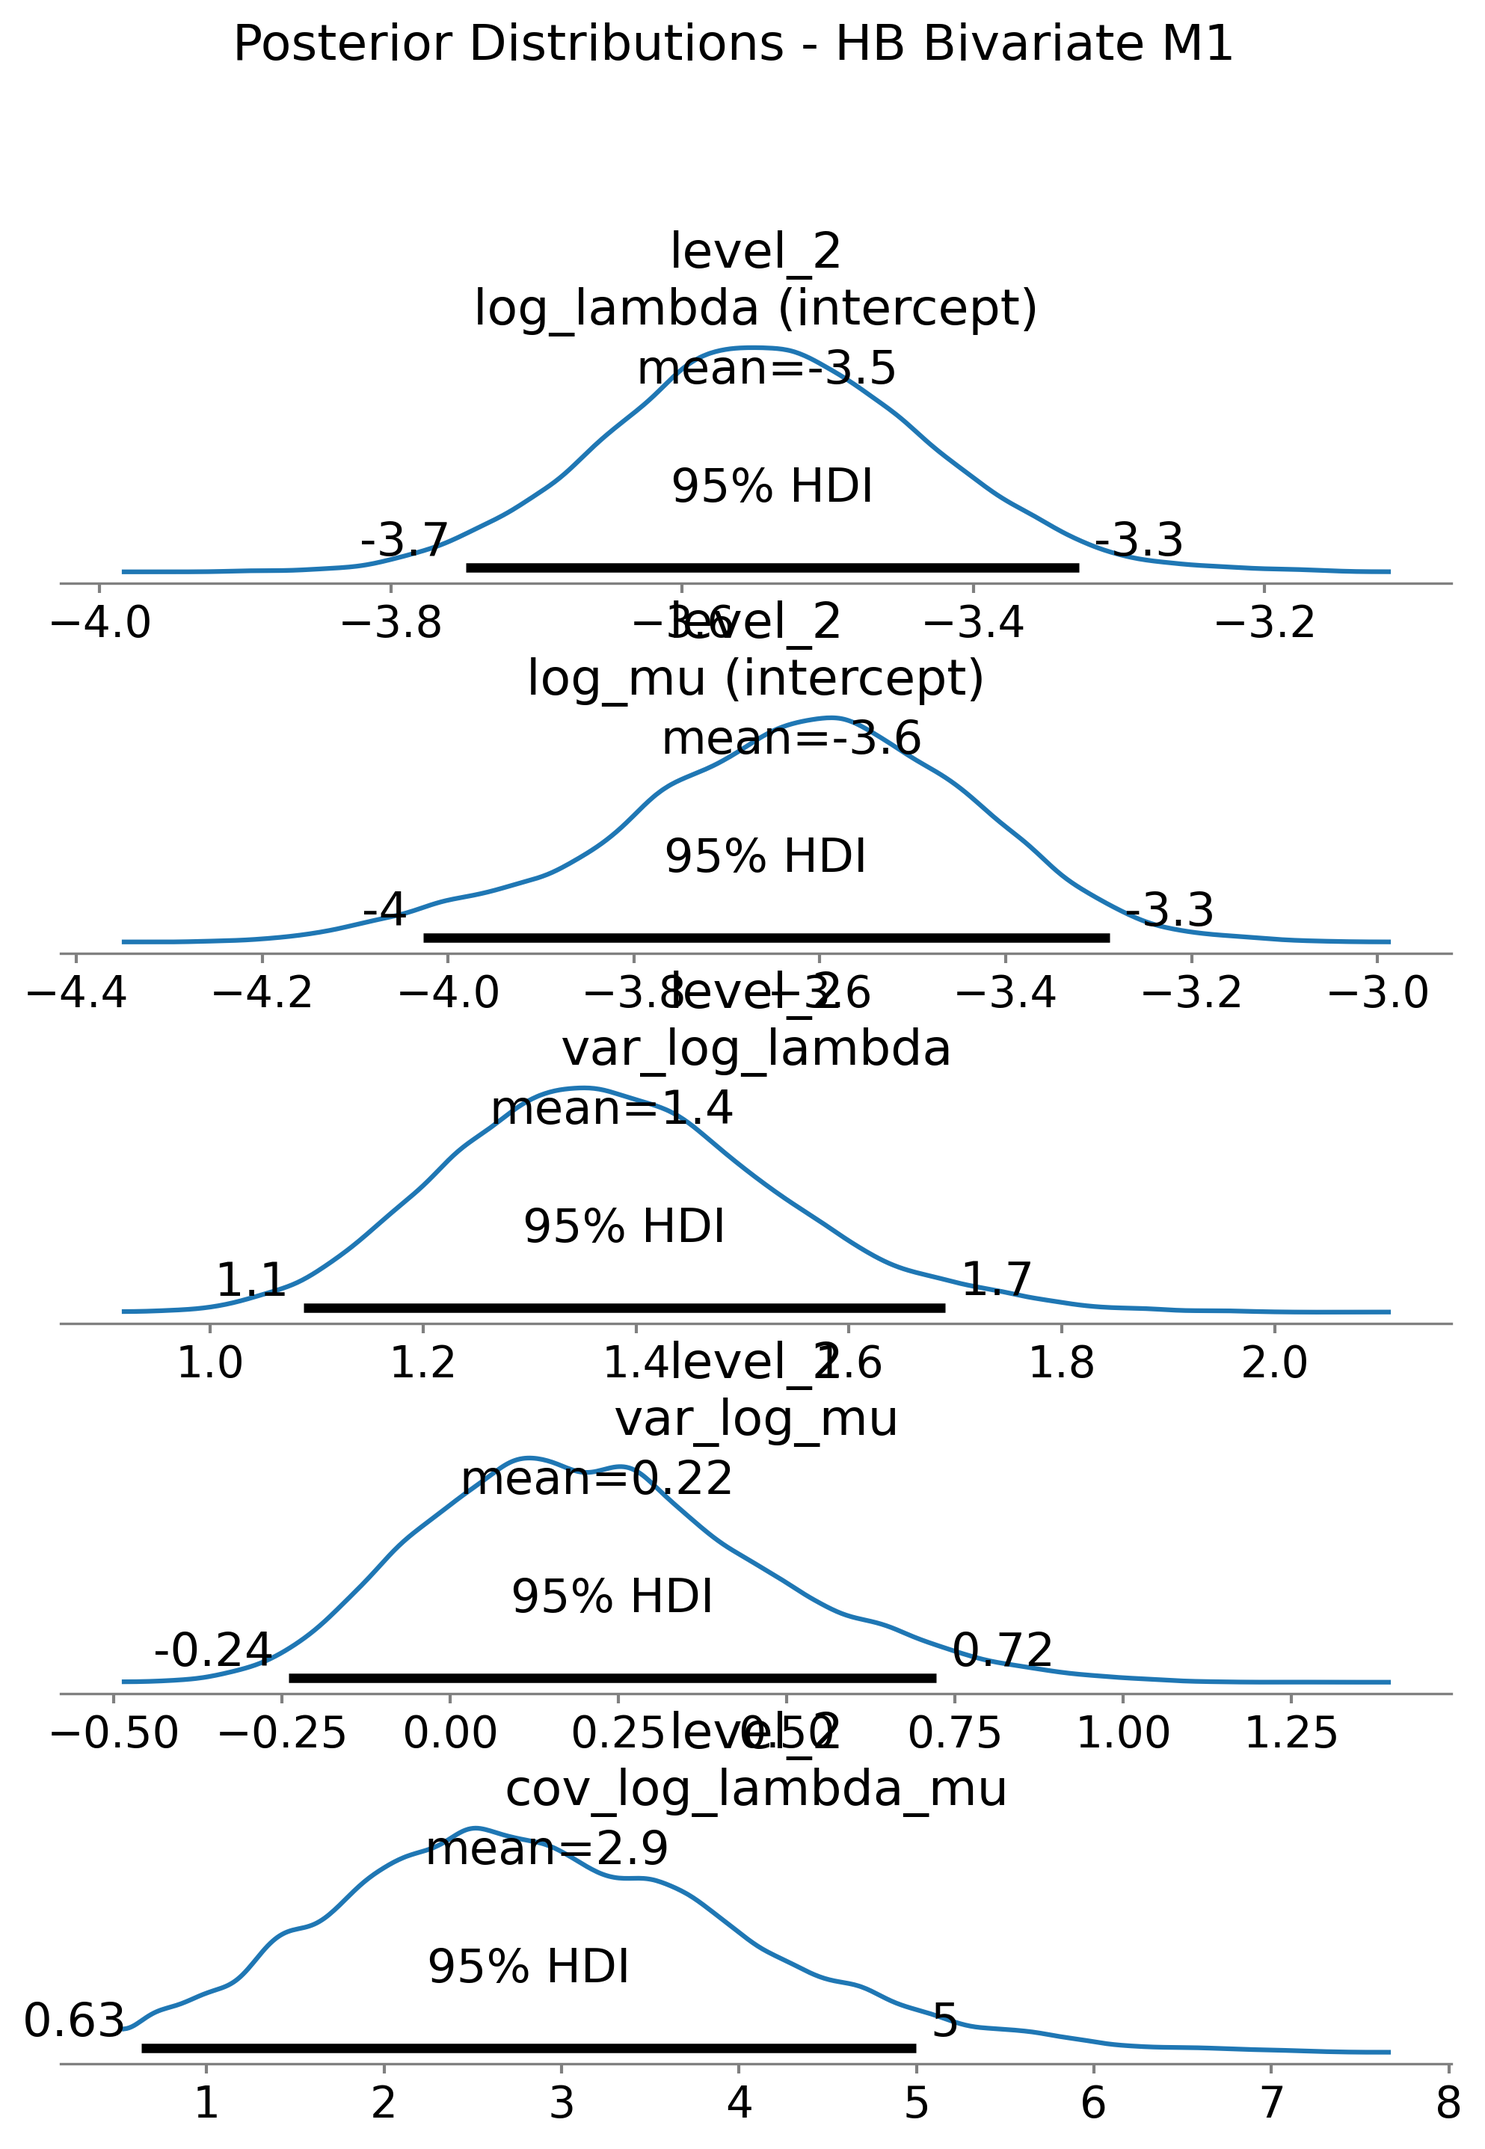
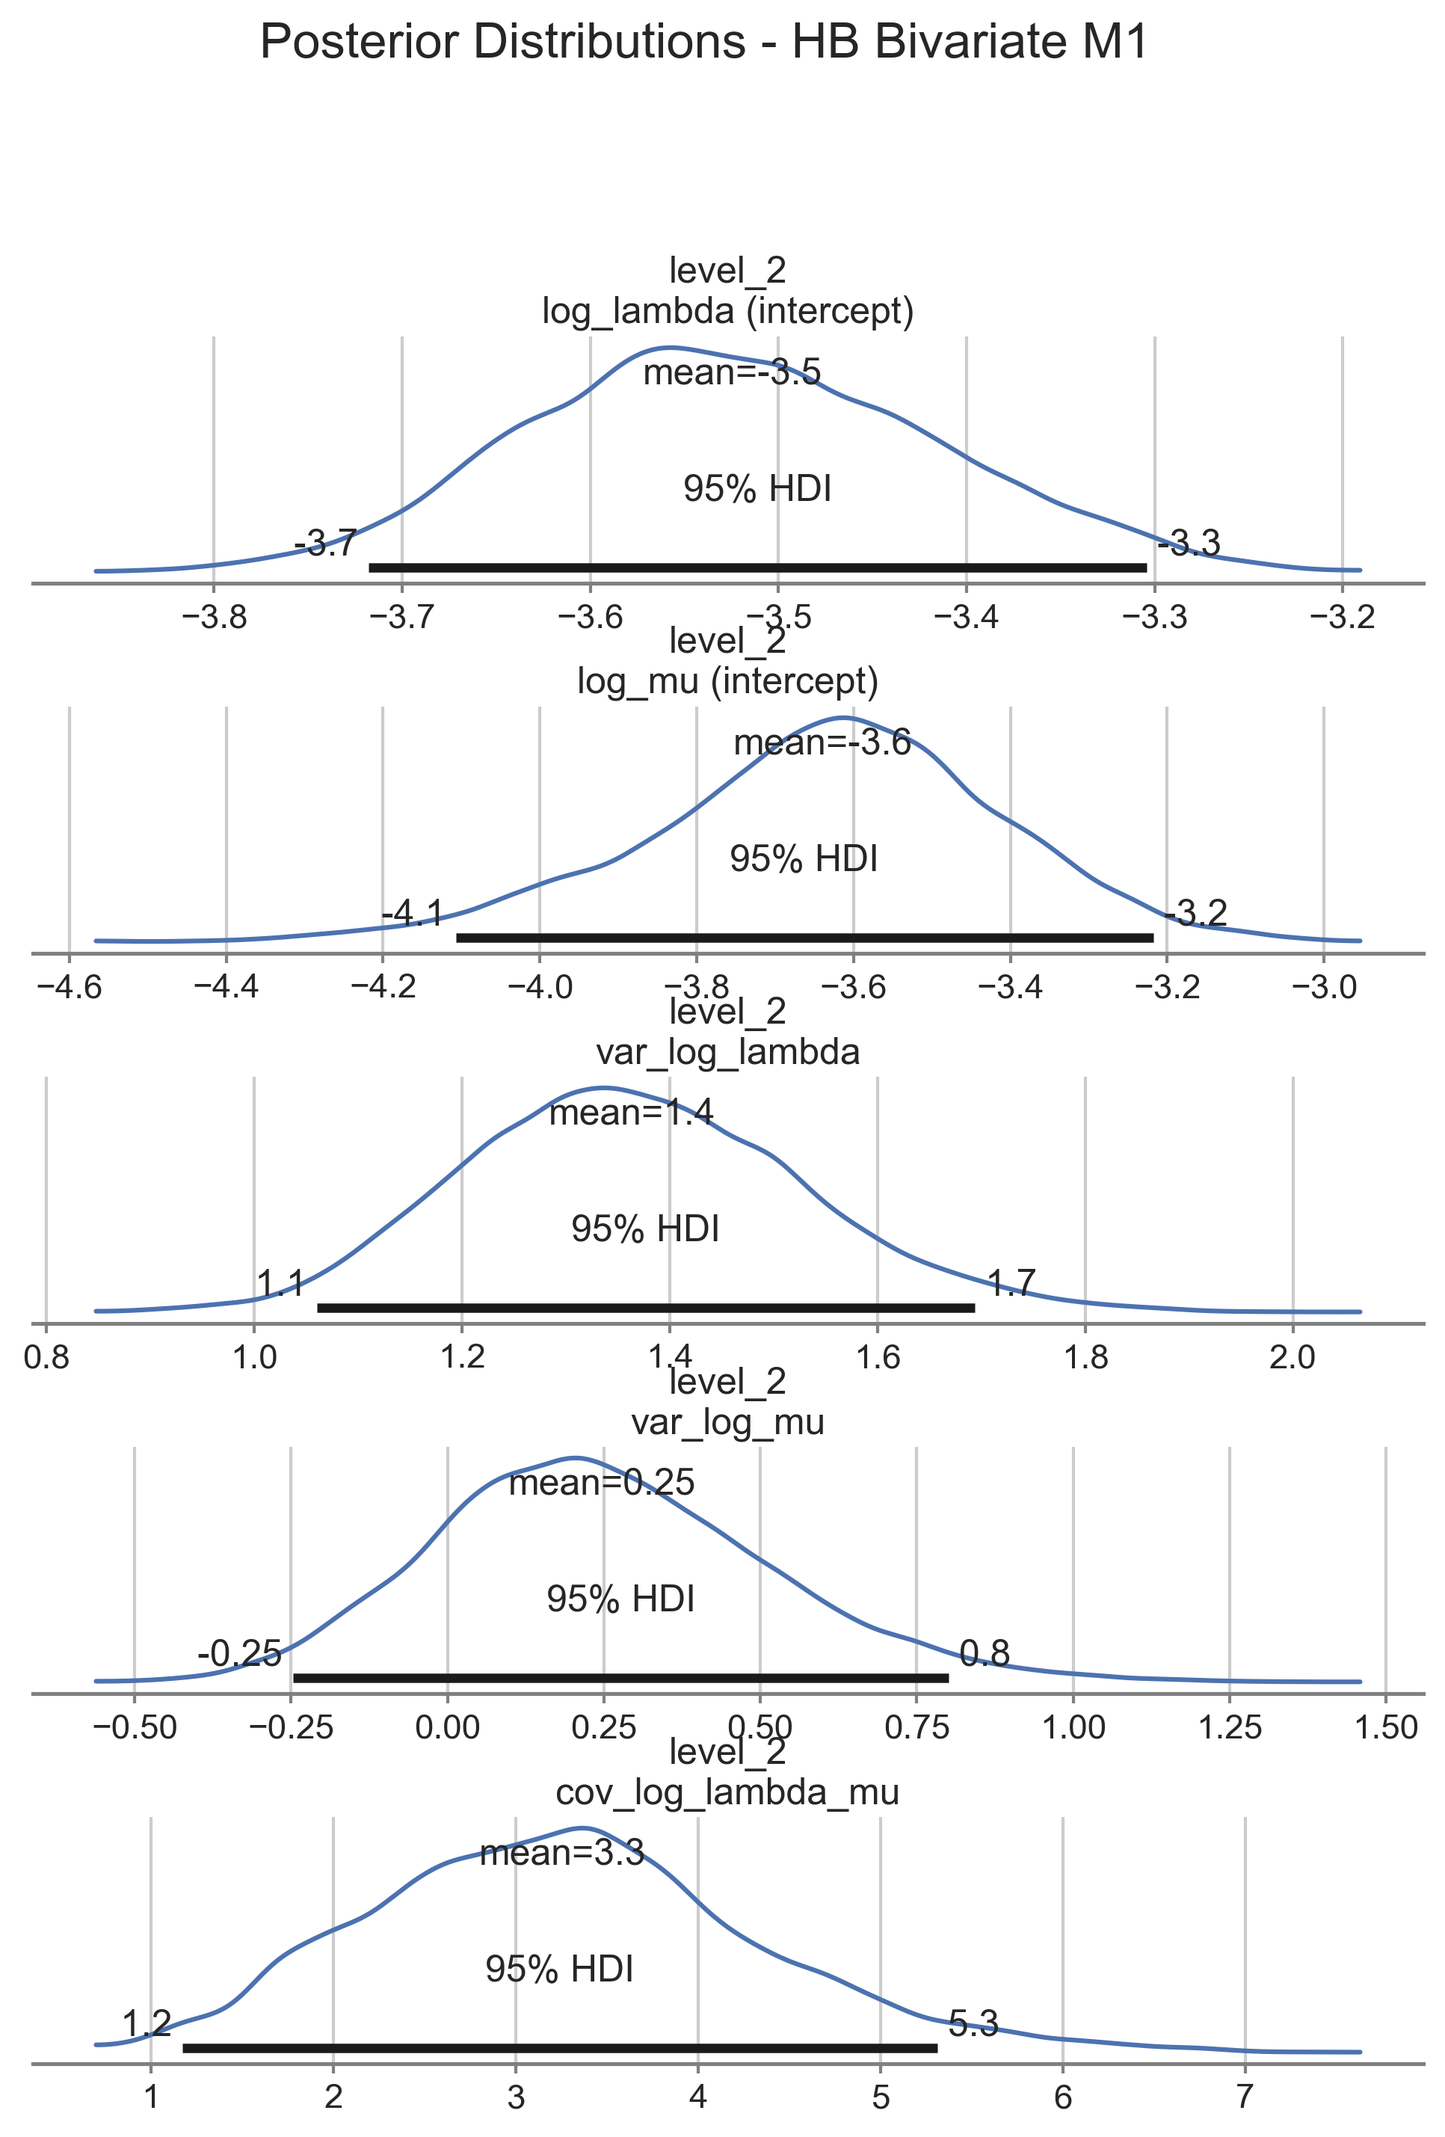
updated runs

diff --git a/src/full_analysis.py b/src/full_analysis.py
@@ -326,7 +326,6 @@ with pd.ExcelWriter(excel_path, engine="openpyxl", mode="a", if_sheet_exists="re
 
 # %% 5. Model Fit Evaluation Bivariate Models
 # -- 5. Model Fit Evaluation Bivariate Models --
-# -- 5. Model Fit Evaluation --
 # BI VARIATE MODEL
 mean_lambda_m1 = post_mean_lambdas(bi_m1)
 mean_mu_m1     = post_mean_mus(bi_m1)
@@ -335,6 +334,10 @@ mean_mu_m2     = post_mean_mus(bi_m2)
 
 cbs["xstar_bi_m1_pred"] = (mean_lambda_m1/mean_mu_m1) * (1 - np.exp(-mean_mu_m1 * t_star))
 cbs["xstar_bi_m2_pred"] = (mean_lambda_m2/mean_mu_m2) * (1 - np.exp(-mean_mu_m2 * t_star))
+
+# Compute marginal log-likelihood for bivariate models
+ll_bi_m1 = chain_total_loglik(bi_m1["level_1"], cbs)
+ll_bi_m2 = chain_total_loglik(bi_m2["level_1"], cbs)
 
 # Prepare weekly index and counts
 first_date = cdnowElog["date"].min()
@@ -354,7 +357,6 @@ repeat_txns = cdnowElog_sorted[cdnowElog_sorted["txn_order"] >= 1]
 weekly_actual = (
     repeat_txns.groupby("week")["cust"].count()
     .reindex(range(1, max_week+1), fill_value = 0))
-
 # -----------------------------------------------------------------------
 
 # TRI VARIATE MODEL
@@ -366,6 +368,12 @@ birth_week = (
 )
 weeks_cal_mask = (times >= 1)  & (times <= 39)
 weeks_val_mask = (times >= 40) & (times <= 78)
+
+# Compute marginal log-likelihood for trivariate models
+ll_tri_m1 = chain_total_loglik(tri_m1["level_1"], cbs_df)
+ll_tri_m2 = chain_total_loglik(tri_m2["level_1"], cbs_df)
+print(f"Marginal log-likelihood Trivariate M1: {ll_tri_m1}")
+print(f"Marginal log-likelihood Trivariate M2: {ll_tri_m2}")
 
 # -----------------------------------------------------------------------
 # 3) Metric helper ------------------------------------------------------
@@ -437,26 +445,31 @@ stats_tri2 = compute_metrics(tri_m2, "Trivariate HB-M2")
 # 5) Assemble two-column Table 2 ----------------------------------------
 table2 = pd.DataFrame({
     stats_bi1["label"]: [
+        ll_bi_m1,
         stats_bi1["corr_val"], stats_bi1["corr_cal"],
-        stats_bi1["mse_val"],  stats_bi1["mse_cal"],
+        stats_bi1["mse_val"], stats_bi1["mse_cal"],
         stats_bi1["mape_val"], stats_bi1["mape_cal"], stats_bi1["mape_pool"]
     ],
     stats_bi2["label"]: [
+        ll_bi_m2,
         stats_bi2["corr_val"], stats_bi2["corr_cal"],
-        stats_bi2["mse_val"],  stats_bi2["mse_cal"],
+        stats_bi2["mse_val"], stats_bi2["mse_cal"],
         stats_bi2["mape_val"], stats_bi2["mape_cal"], stats_bi2["mape_pool"]
     ],
     stats_tri1["label"]: [
+        ll_tri_m1,
         stats_tri1["corr_val"], stats_tri1["corr_cal"],
-        stats_tri1["mse_val"],  stats_tri1["mse_cal"],
+        stats_tri1["mse_val"], stats_tri1["mse_cal"],
         stats_tri1["mape_val"], stats_tri1["mape_cal"], stats_tri1["mape_pool"]
     ],
     stats_tri2["label"]: [
+        ll_tri_m2,
         stats_tri2["corr_val"], stats_tri2["corr_cal"],
-        stats_tri2["mse_val"],  stats_tri2["mse_cal"],
+        stats_tri2["mse_val"], stats_tri2["mse_cal"],
         stats_tri2["mape_val"], stats_tri2["mape_cal"], stats_tri2["mape_pool"]
     ]
 }, index=[
+    "Marginal log-likelihood",
     "Correlation (Validation)", "Correlation (Calibration)",
     "MSE (Validation)",         "MSE (Calibration)",
     "MAPE (Validation)",        "MAPE (Calibration)", "MAPE (Pooled)"
@@ -467,7 +480,8 @@ row_order = [
     "Correlation (Validation)", "Correlation (Calibration)", "",
     "MSE (Validation)",         "MSE (Calibration)",         "",
     "Aggregate measure", "Time-series MAPE (%)",
-    "MAPE (Validation)",        "MAPE (Calibration)",        "MAPE (Pooled)"
+    "MAPE (Validation)",        "MAPE (Calibration)",        "MAPE (Pooled)",
+        "Marginal log-likelihood"
 ]
 table2 = table2.reindex(row_order)
 
@@ -479,8 +493,8 @@ with pd.ExcelWriter(excel_path, engine="openpyxl", mode="a", if_sheet_exists="re
     table2_disp.to_excel(writer, sheet_name="ModelFit_Table", index=False, float_format="%.2f")
 # ------------------------------------------------------------------
 
-# %% 7. Weekly-Series Tracking
-# -- 7. Weekly-Series Tracking --
+# %% 6. Weekly-Series Tracking
+# -- 6. Weekly-Series Tracking --
 cum_actual = weekly_actual.cumsum()
 
  # --- Birth‑aligned Pareto/NBD baseline (MLE) -----------------
@@ -640,8 +654,8 @@ plt.savefig(os.path.join(plots_path, "Weekly_Tracking.png"), dpi=300, bbox_inche
 plt.show()
 # ------------------------------------------------------------------
 
-# %% 8. Conditional expectation of future transactions
-# -- 8. Conditional expectation of future transactions
+# %% 7. Conditional expectation of future transactions
+# -- 7. Conditional expectation of future transactions
 
 # Group by number of calibration transactions (0–7+)
 # Use analytical expectations, with different formulas for Pareto/NBD (M1) and HB (M2)
@@ -732,8 +746,8 @@ plt.savefig(os.path.join(plots_path, "Conditional_Expectation.png"), dpi=300, bb
 plt.show()
 # ------------------------------------------------------------------
 
-# %% 9. Scatterplot - Prediction of all models
-# -- 9. Scatterplot - Prediction of all models
+# %% 8. Scatterplot - Prediction of all models
+# -- 8. Scatterplot - Prediction of all models
 import seaborn as sns
 sns.set(style="whitegrid")
 
@@ -787,8 +801,8 @@ plt.tight_layout()
 plt.savefig(os.path.join(plots_path, "Scatter_Prediction.png"), dpi=300, bbox_inches='tight')
 plt.show()
 
-# %% 10. Alive vs Churned customers
-# -- 10. Alive vs Churned customers
+# %% 9. Alive vs Churned customers
+# -- 9. Alive vs Churned customers
 # ------------------------------------------------------------------
 # Alive vs. Churned – four HB models in one 2×2 barplot grid
 # ------------------------------------------------------------------
@@ -840,8 +854,8 @@ plt.savefig(os.path.join(plots_path, "Alive_vs_Churned.png"),
 plt.show()
 # -------------------------------------------------------------------
 
-# %% 11. Traceplots
-# -- 11. Traceplots
+# %% 10. Traceplots
+# -- 10. Traceplots
 plots_path = os.path.join(save_figures_path, "SamplingPlots")
 
 # Convert Bivariate M1 to InferenceData with full dims
@@ -949,8 +963,8 @@ for idata, label in [
     plt.close()
 # ------------------------------------------------------------------
 
-# %% 12. BIVARIATE Convergence 
-# -- 12. BIVARIATE Convergence 
+# %% 11. BIVARIATE Convergence 
+# -- 11. BIVARIATE Convergence 
 
 def level2_summary(draws: dict, label: str = "m1") -> pd.DataFrame:
     # ------------------------------------------------------------------
@@ -1000,8 +1014,8 @@ with pd.ExcelWriter(excel_path, engine="openpyxl", mode="a", if_sheet_exists="re
     summary_m2.to_excel(writer, sheet_name="Bi_Convergence_M2", index=True)
 # ------------------------------------------------------------------
 
-# %% 13. TRIVARIATE Convergence
-# -- 13. TRIVARIATE Convergence
+# %% 12. TRIVARIATE Convergence
+# -- 12. TRIVARIATE Convergence
 
 def level2_summary_trivar(draws: dict, label: str = "M1") -> pd.DataFrame:
     """
@@ -1060,3 +1074,5 @@ with pd.ExcelWriter(excel_path, engine="openpyxl", mode="a", if_sheet_exists="re
     summary_3pI.to_excel(writer, sheet_name="Tri_Convergence_M1", index=True)
     summary_3pII.to_excel(writer, sheet_name="Tri_Convergence_M2", index=True)
 # ------------------------------------------------------------------
+
+# %%

diff --git a/src/models/bivariate/analysis_abe.py b/src/models/bivariate/analysis_abe.py
@@ -709,9 +709,9 @@ ax.tick_params(axis='x', colors='#444444')
 plt.tight_layout()
 plt.savefig(os.path.join(figure_path, "Alive_vs_Churned.png"), dpi=300, bbox_inches='tight')
 plt.show()
-# -------------------------------------------------------------------
-# 8. Visualize the posterior distributions and traceplots for both models
-# -------------------------------------------------------------------
+
+# %% 8. Posterior distributions and Traceplots
+# -- 8. Posterior distributions and Traceplots 
 # Convert M1 to InferenceData
 idata_m1 = az.from_dict(
     posterior={"level_2": np.array(draws_m1["level_2"])},  # shape: (chains, draws, dims)
@@ -745,11 +745,49 @@ plt.suptitle("Traceplot - M1", fontsize=14)
 plt.tight_layout()
 plt.show()
 
+
 az.plot_trace(idata_m2, var_names=["level_2"], figsize=(12, 10))
 plt.suptitle("Traceplot - M2", fontsize=14)
 plt.tight_layout()
 plt.show()
 
+# %% 8.X Posterior Densities for all parameters in a single plot
+def plot_posteriors(idata, model_name):
+    plt.figure(figsize=(8,6))
+    for param in idata.posterior["level_2"].coords["param"].values:
+        data = idata.posterior["level_2"].sel(param=param).values.flatten()
+        sns.kdeplot(data, label=param, fill=True)
+    plt.title(f"Posterior Distributions - {model_name}")
+    plt.xlabel("Value")
+    plt.ylabel("Density")
+    plt.legend()
+    plt.tight_layout()
+    plt.savefig(os.path.join(figure_path, f"Posteriors_{model_name}.png"), dpi=300, bbox_inches="tight")
+    plt.show()
+
+
+plot_posteriors(idata_m1, "M1")
+plot_posteriors(idata_m2, "M2")
+
+# %% 8.Y Overlay trace plots for all parameters in a single plot
+def plot_traces(idata, model_name):
+    plt.figure(figsize=(8,6))
+    for param in idata.posterior["level_2"].coords["param"].values:
+        samples = idata.posterior["level_2"].sel(param=param).values.flatten()
+        plt.plot(samples, label=param, linewidth=0.5)
+    plt.title(f"Trace Plots - {model_name}")
+    plt.xlabel("Sample")
+    plt.ylabel("Value")
+    plt.legend()
+    plt.tight_layout()
+    plt.savefig(os.path.join(figure_path, f"Traces_{model_name}.png"), dpi=300, bbox_inches="tight")
+    plt.show()
+
+plot_traces(idata_m1, "M1")
+plot_traces(idata_m2, "M2")
+
+# %% 9. Summary and convergence diagnostics
+# -- 9. Summary and convergence diagnostics
 # 9. Summary and convergence diagnostics
 # Traceplot – M1 and M2
 az.summary(idata_m1, var_names=["level_2"], round_to=4)
@@ -769,10 +807,9 @@ az.plot_autocorr(idata_m2, var_names=["level_2"], figsize=(12, 10))
 plt.suptitle("Autocorrelation - M2", fontsize=14)
 plt.tight_layout()
 plt.show()
+# %% 10. Autocorrelation – M1 vs. M2
+# -- 10. Autocorrelation – M1 vs. M2
 
-# -------------------------------------------------------------------
-# 10. Autocorrelation – M1 vs. M2
-# -------------------------------------------------------------------
 # Get number of parameters (last dimension)
 n_params_m1 = idata_m1.posterior["level_2"].shape[-1]
 n_params_m2 = idata_m2.posterior["level_2"].shape[-1]
@@ -803,3 +840,56 @@ plt.suptitle("Posterior Distributions - M2", fontsize=16, y=1.02)
 plt.subplots_adjust(hspace=0.5)
 plt.show()
 # -------------------------------------------------------------------
+
+# %% 12. BIVARIATE Convergence 
+# -- 12. BIVARIATE Convergence 
+import xarray as xr
+
+def level2_summary(draws: dict, label: str = "m1") -> pd.DataFrame:
+    # ------------------------------------------------------------------
+    # 1) ensure NumPy array
+    # ------------------------------------------------------------------
+    lvl2 = np.asarray(draws["level_2"])    # list → ndarray
+    if lvl2.ndim == 2:                     # single chain: (draws, P)
+        lvl2 = lvl2[None, ...]             # → (1, draws, P)
+
+    chains, draws_n, P = lvl2.shape
+    # ------------------------------------------------------------------
+    # 2) build dynamic parameter names (unchanged below)
+    # ------------------------------------------------------------------
+    n_cov = max((P - 5) // 2, 0)
+    param_names = ["log_lambda (intercept)", "log_mu (intercept)"]
+    for i in range(n_cov):
+        param_names.extend([f"beta_lambda[{i}]", f"beta_mu[{i}]"])
+    param_names.extend(
+        ["var_log_lambda", "cov_log_lambda_mu", "var_log_mu"]
+    )
+
+    da = xr.DataArray(
+        lvl2,
+        dims=("chain", "draw", "param"),
+        coords={"param": param_names},
+    )
+
+    summary = az.summary(
+        az.from_dict(posterior={"level_2": da}),
+        var_names=["level_2"],
+        round_to=4,
+    )
+    summary.index = [f"level_2[{p}]" for p in param_names]
+    return summary
+
+summary_m1 = level2_summary(draws_m1, label="m1")
+print(summary_m1)
+
+# Always compute and print Bivariate M2 convergence
+summary_m2 = level2_summary(draws_m2, label="m2")
+print("\n" + "-" * 60)
+print(summary_m2)
+
+# Save bivariate convergence summaries to separate sheets
+with pd.ExcelWriter(excel_path, engine="openpyxl", mode="a", if_sheet_exists="replace") as writer:
+    summary_m1.to_excel(writer, sheet_name="Convergence_M1", index=True)
+    summary_m2.to_excel(writer, sheet_name="Convergence_M2", index=True)
+# ------------------------------------------------------------------
+# %%

diff --git a/src/models/trivariate/run_mcmc_extensions.py b/src/models/trivariate/run_mcmc_extensions.py
@@ -60,9 +60,9 @@ start_m1 = time.time()
 draws_3pI = mcmc_draw_parameters_rfm_m(
     cal_cbs    = cbs_df,
     covariates = None,      # intercept‐only
-    mcmc       =    8000,      # 8000 total iterations
-    burnin     =    20000,   # discard the first 20 000 as warm-up
-    thin       =    1,         # keep every draw; 8 000 draws after burn-in
+    mcmc       =    4000,      # 4000 total iterations
+    burnin     =    10000,   # discard the first 10 000 as warm-up
+    thin       =    1,         # keep every draw; 4 000 draws after burn-in
     chains     =    4,
     seed       =    42,
     trace      =    1000,
@@ -91,8 +91,8 @@ start_m2 = time.time()
 draws_3pII = mcmc_draw_parameters_rfm_m(
     cal_cbs    = cbs_df,
     covariates  = covariate_cols,
-    mcmc    =   8000,      # 8000 total iterations
-    burnin  =   20000,   # discard the first 20 000 as warm-up
+    mcmc    =   4000,      # 8000 total iterations
+    burnin  =   10000,   # discard the first 20 000 as warm-up
     thin    =   1,         # keep every draw; 8 000 draws after burn-in
     chains  =   4,
     seed    =   42,

diff --git a/src/models/bivariate/run_mcmc_extensions.py b/src/models/bivariate/run_mcmc_extensions.py
@@ -62,8 +62,8 @@ start_m1 = time.time()
 draws_m1 = mcmc_draw_parameters(
     cal_cbs =   cbs,
     covariates  =[],
-    mcmc    =   8000,      # 4000 total iterations
-    burnin  =   20000,   # discard the first 10 000 as warm-up
+    mcmc    =   4000,      # 4000 total iterations
+    burnin  =   10000,   # discard the first 10 000 as warm-up
     thin    =   1,         # keep every draw; 4 000 draws after burn-in
     chains  =   4,
     seed    =   42,
@@ -86,8 +86,8 @@ start_m2 = time.time()
 draws_m2 = mcmc_draw_parameters(
     cal_cbs =   cbs,
     covariates =["first_sales_scaled", "age_scaled", "gender_binary"],  # Parameters to replicate Abe 2009
-    mcmc    =   8000,     # 14 000 total iterations
-    burnin  =   20000,   # discard the first 10 000 as warm-up
+    mcmc    =   4000,     # 14 000 total iterations
+    burnin  =   10000,   # discard the first 10 000 as warm-up
     thin    =   1,         # keep every draw; 4 000 draws after burn-in
     chains  =   4,
     seed    =   42,

diff --git a/src/models/bivariate/run_mcmc_abe.py b/src/models/bivariate/run_mcmc_abe.py
@@ -67,7 +67,7 @@ draws_m1 = mcmc_draw_parameters(
     chains  =   4,
     seed    =   42,
     trace   =   1000,
-    n_mh_steps = 20,
+    n_mh_steps = 50,
 )
 m1_duration = time.time() - start_m1
 print(f"Model M1 runtime: {m1_duration:.2f} seconds")
@@ -91,7 +91,7 @@ draws_m2 = mcmc_draw_parameters(
     chains  =   4,
     seed    =   42,
     trace   =   1000,
-    n_mh_steps = 20,
+    n_mh_steps = 50,
 )
 m2_duration = time.time() - start_m2
 print(f"Model M2 runtime: {m2_duration:.2f} seconds")
